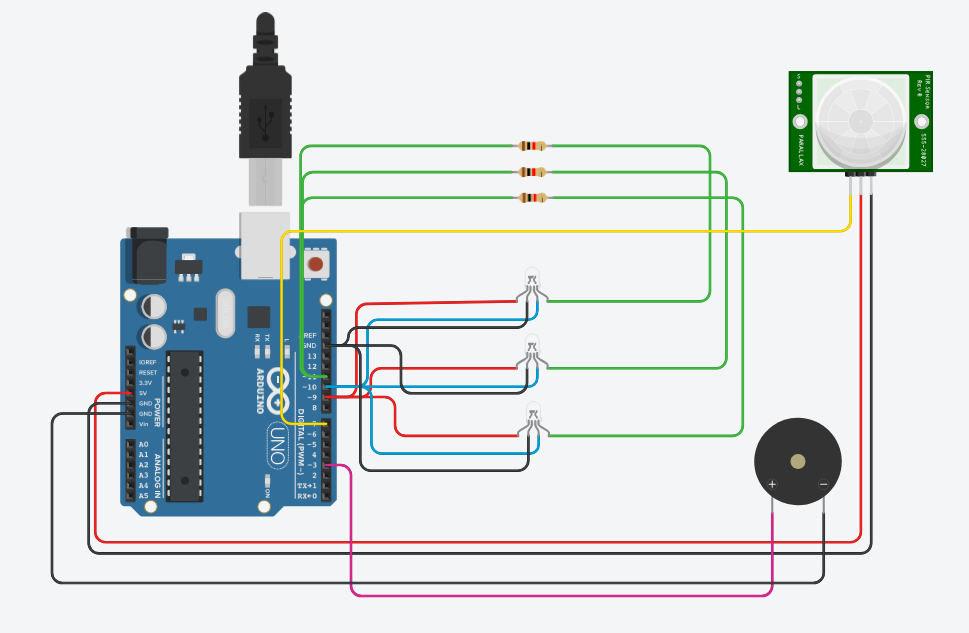
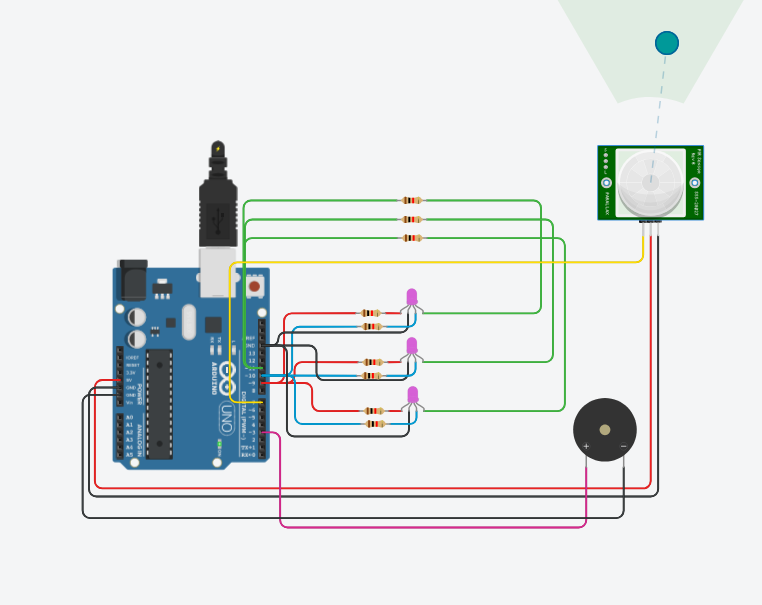
18

Changed region(s): [[0.0302, 0.0, 0.9659, 0.9521]]

diff --git a/Motion Controlled Color Changer/README.md b/Motion Controlled Color Changer/README.md
@@ -1,9 +1,14 @@
 # Motion Controlled Color Changer
 
+### Components
+- Arduino UNO R3 (x1)
+- PIR Sensor (x1)
+- RCBG LED RGB (x3)
+- 1 kΩ Resistor (x9)
 
 
 ### Circuit View
 ![alt text](circuit.png)
 
 ### Circuit Schematic
-![alt text](image.png)
+![alt text](circuit_schematic.png)
